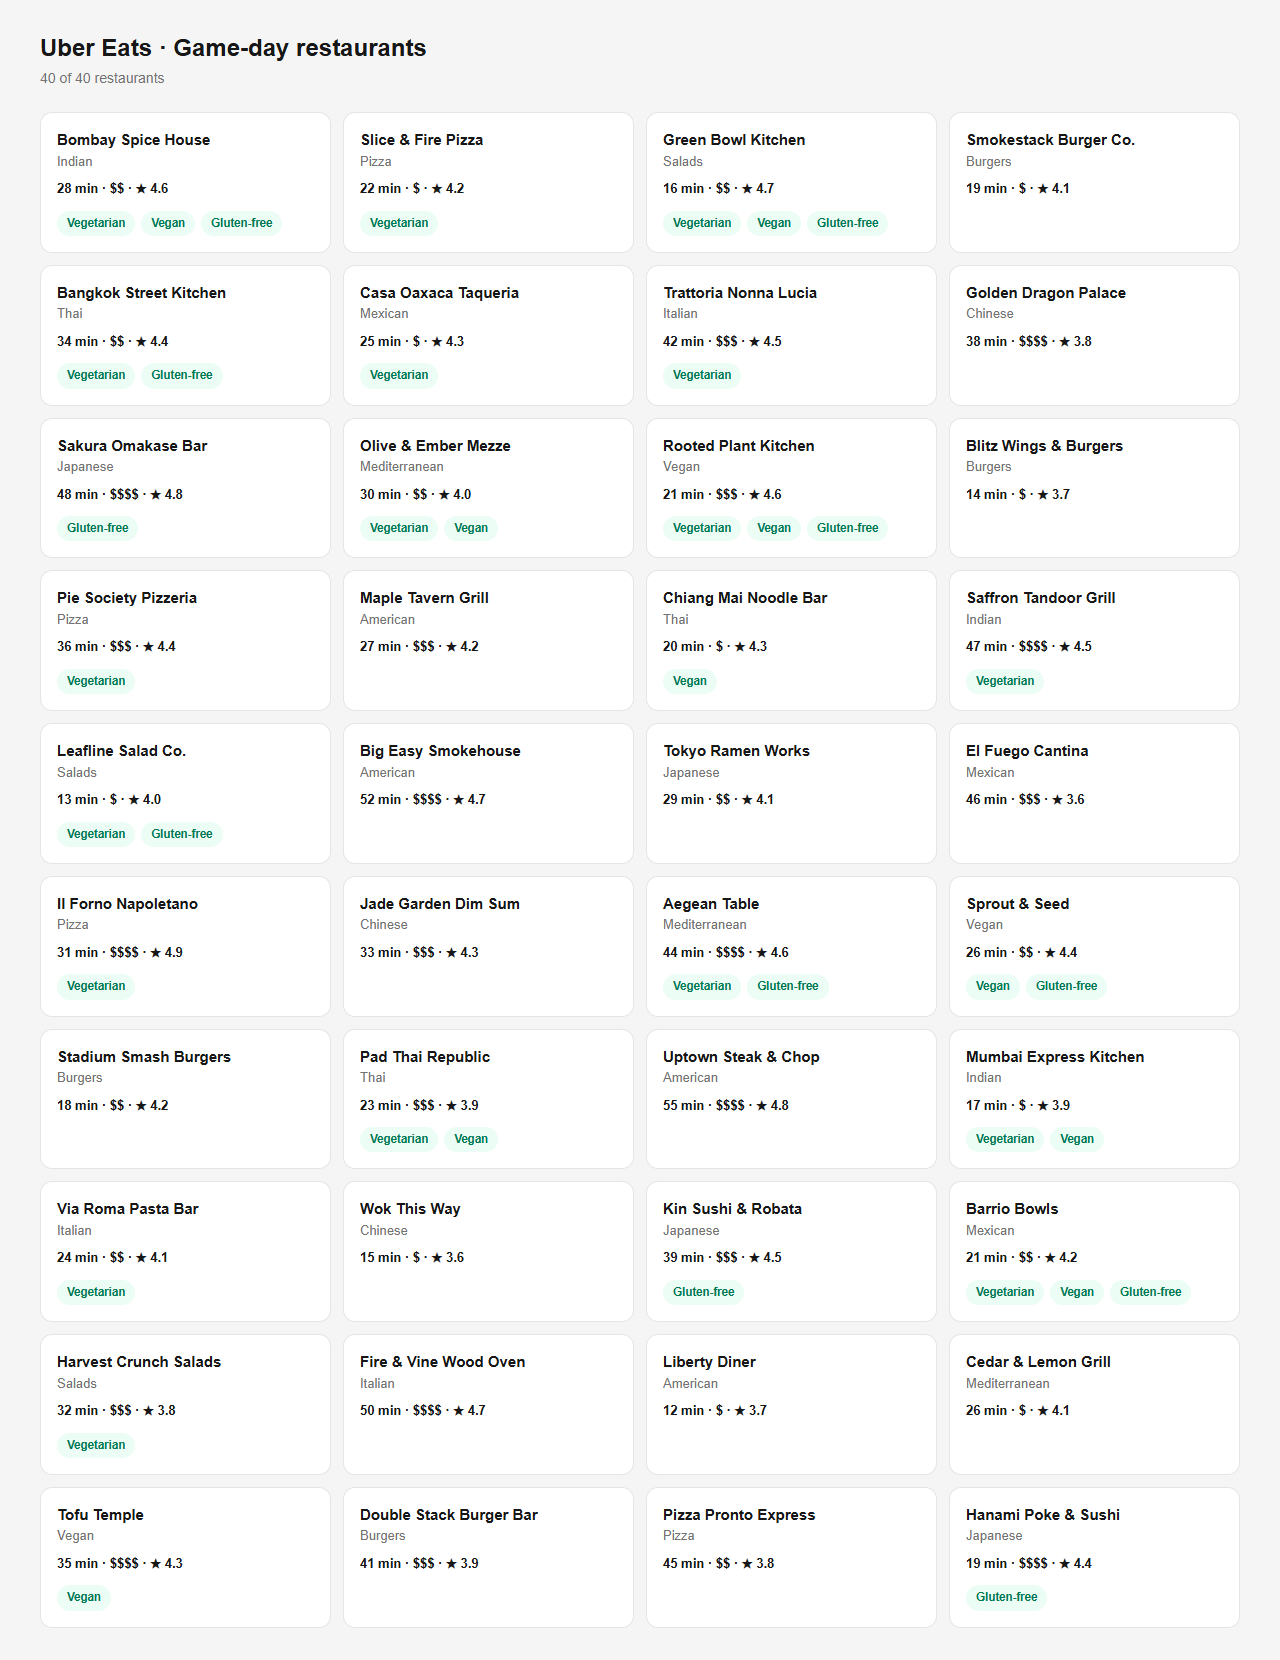
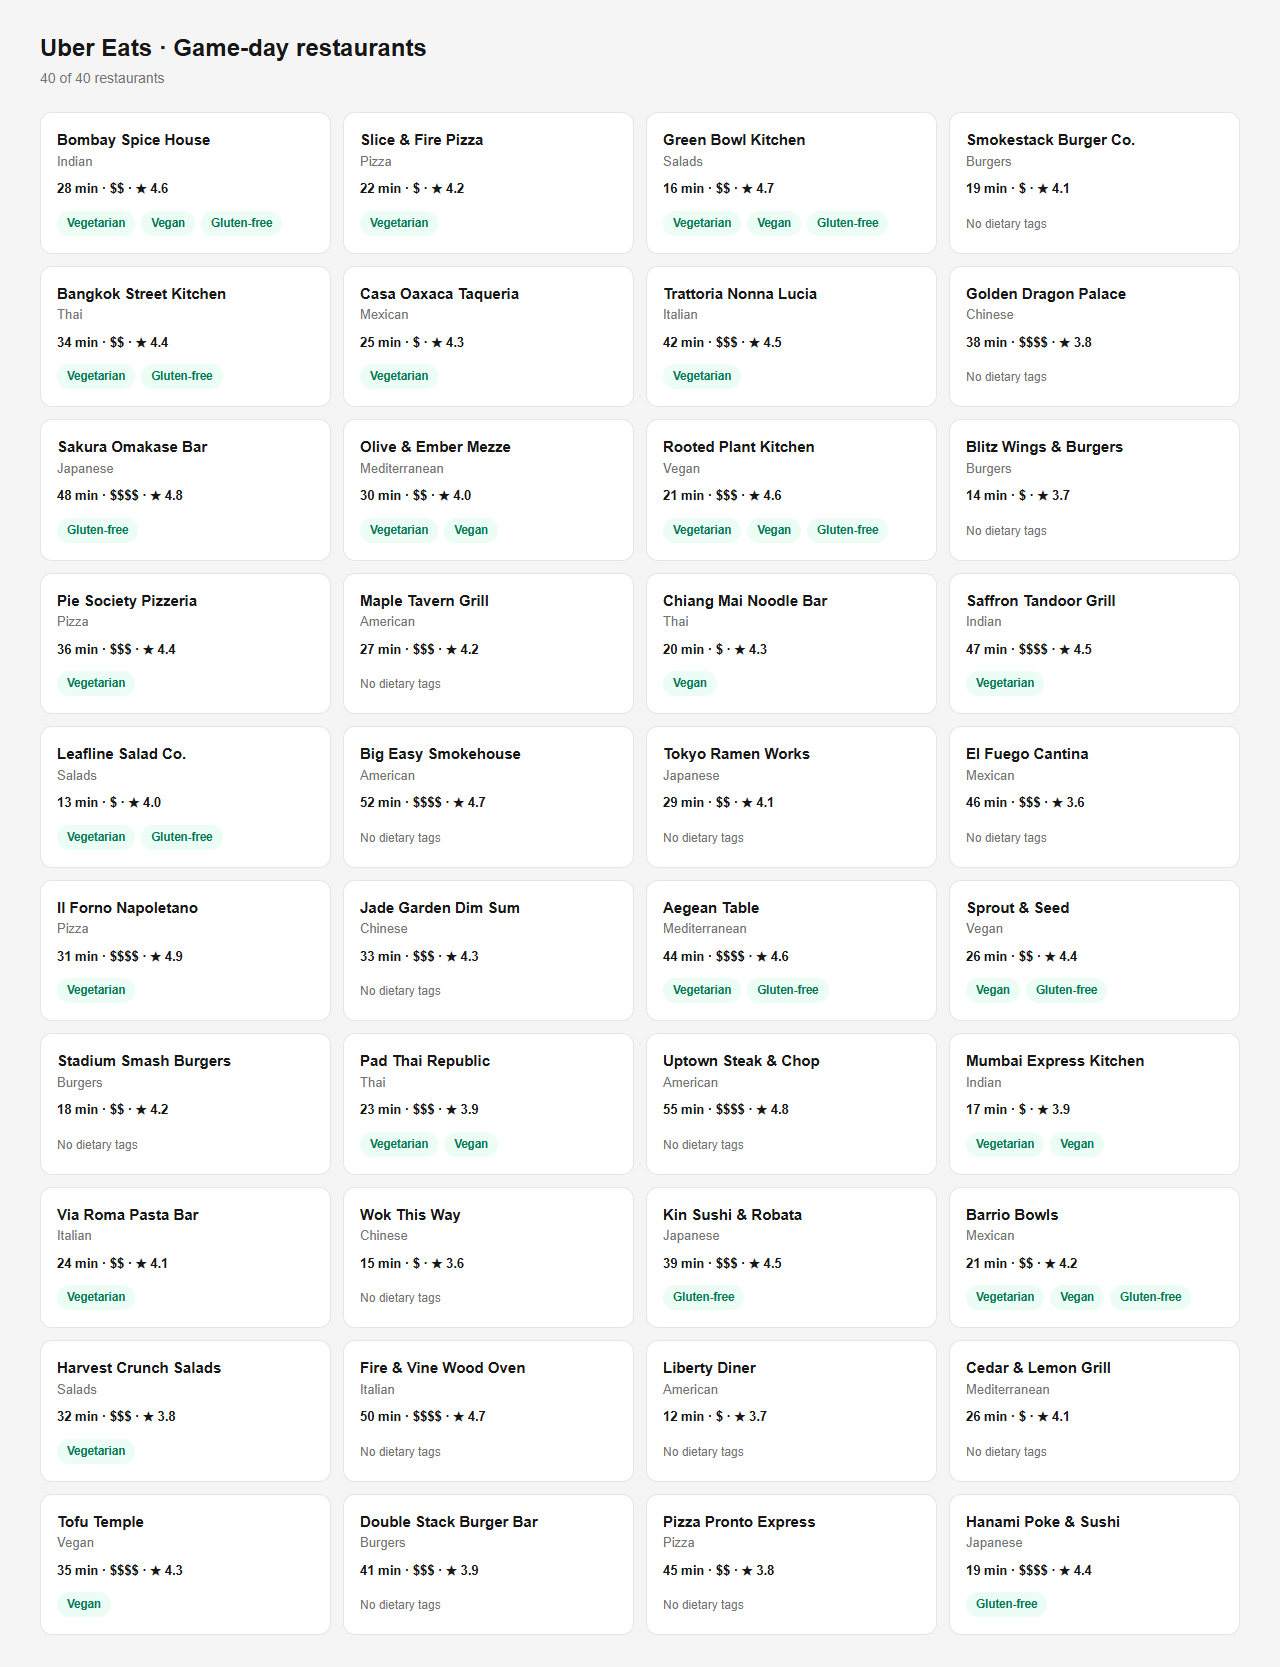
Show 'No dietary tags' on untagged cards; name delivery chips '30 min or less' to match the inclusive rule

diff --git a/components/RestaurantCard.tsx b/components/RestaurantCard.tsx
@@ -9,8 +9,9 @@ function dietaryTags(r: Restaurant): string[] {
   return tags;
 }
 
-/** One restaurant card, as in the wireframe: no id on the card. */
+/** One restaurant card, as in the wireframe: no id on the card, and an explicit line when no dietary tag applies. */
 export function RestaurantCard({ restaurant: r }: { restaurant: Restaurant }) {
+  const tags = dietaryTags(r);
   return (
     <article className="rounded-xl border border-neutral-200 bg-white p-4">
       <h2 className="text-[15px] font-bold text-neutral-900">{r.name}</h2>
@@ -18,13 +19,17 @@ export function RestaurantCard({ restaurant: r }: { restaurant: Restaurant }) {
       <p className="mt-2 text-[13px] font-semibold text-neutral-900">
         {r.deliveryTimeMin} min · {r.priceBand} · ★ {r.rating.toFixed(1)}
       </p>
-      <ul className="mt-3 flex flex-wrap gap-1.5">
-        {dietaryTags(r).map((tag) => (
-          <li key={tag} className="rounded-full bg-emerald-50 px-2.5 py-1 text-[11.5px] font-semibold text-emerald-700">
-            {tag}
-          </li>
-        ))}
-      </ul>
+      {tags.length > 0 ? (
+        <ul className="mt-3 flex flex-wrap gap-1.5" aria-label="Dietary tags">
+          {tags.map((tag) => (
+            <li key={tag} className="rounded-full bg-emerald-50 px-2.5 py-1 text-[11.5px] font-semibold text-emerald-700">
+              {tag}
+            </li>
+          ))}
+        </ul>
+      ) : (
+        <p className="mt-3 py-1 text-[12px] text-neutral-500">No dietary tags</p>
+      )}
     </article>
   );
 }

diff --git a/lib/types.ts b/lib/types.ts
@@ -4,7 +4,7 @@ export type PriceBand = "$" | "$$" | "$$$" | "$$$$";
 /** Dietary tags a diner can filter on. */
 export type DietaryTag = "vegetarian" | "vegan" | "glutenFree";
 
-/** Delivery-time chips, in minutes. A restaurant passes when delivery_time_min <= the limit. */
+/** Delivery-time chips, in minutes, labelled "20/30/45 min or less". A restaurant passes when delivery_time_min <= the limit, so exactly 30 passes the 30 chip. */
 export type DeliveryLimit = 20 | 30 | 45;
 
 /** Rating chips. A restaurant passes when rating >= the minimum. */

diff --git a/README.md b/README.md
@@ -15,7 +15,8 @@ A Next.js (App Router) + TypeScript page that renders the 40-restaurant Game-Day
 
 ## Rule calls to note
 - Vegan counts as vegetarian in the filter: three rows (Chiang Mai Noodle Bar, Sprout & Seed, Tofu Temple) are vegan but flagged not vegetarian. The data file is left untouched; this is a filter rule, and cards still show only the tags the data says yes to.
-- Delivery limits and rating minimums are inclusive: exactly 30 min passes Under 30; exactly 4.0 passes 4.0+.
+- Delivery limits and rating minimums are inclusive, and the chip names say so: the delivery chips read "20 / 30 / 45 min or less" (not "Under 30"), so Olive & Ember Mezze at exactly 30 min matches what the label promises; exactly 4.0 passes 4.0+.
+- Cards with no dietary flags (16 of 40, e.g. Smokestack Burger Co., Liberty Diner) show a "No dietary tags" line, so the slot reads as deliberate rather than broken.
 
 ## Run
 ```bash
